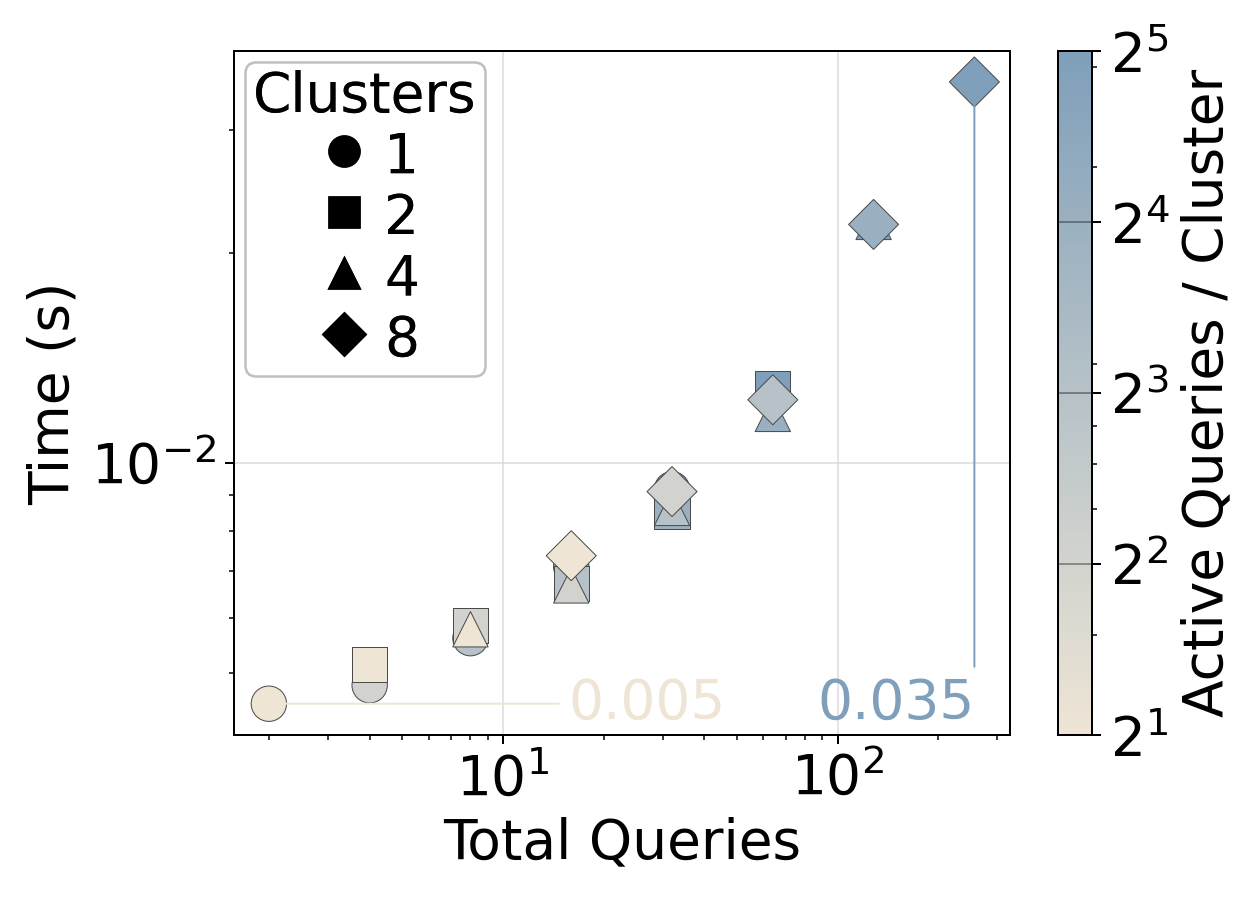
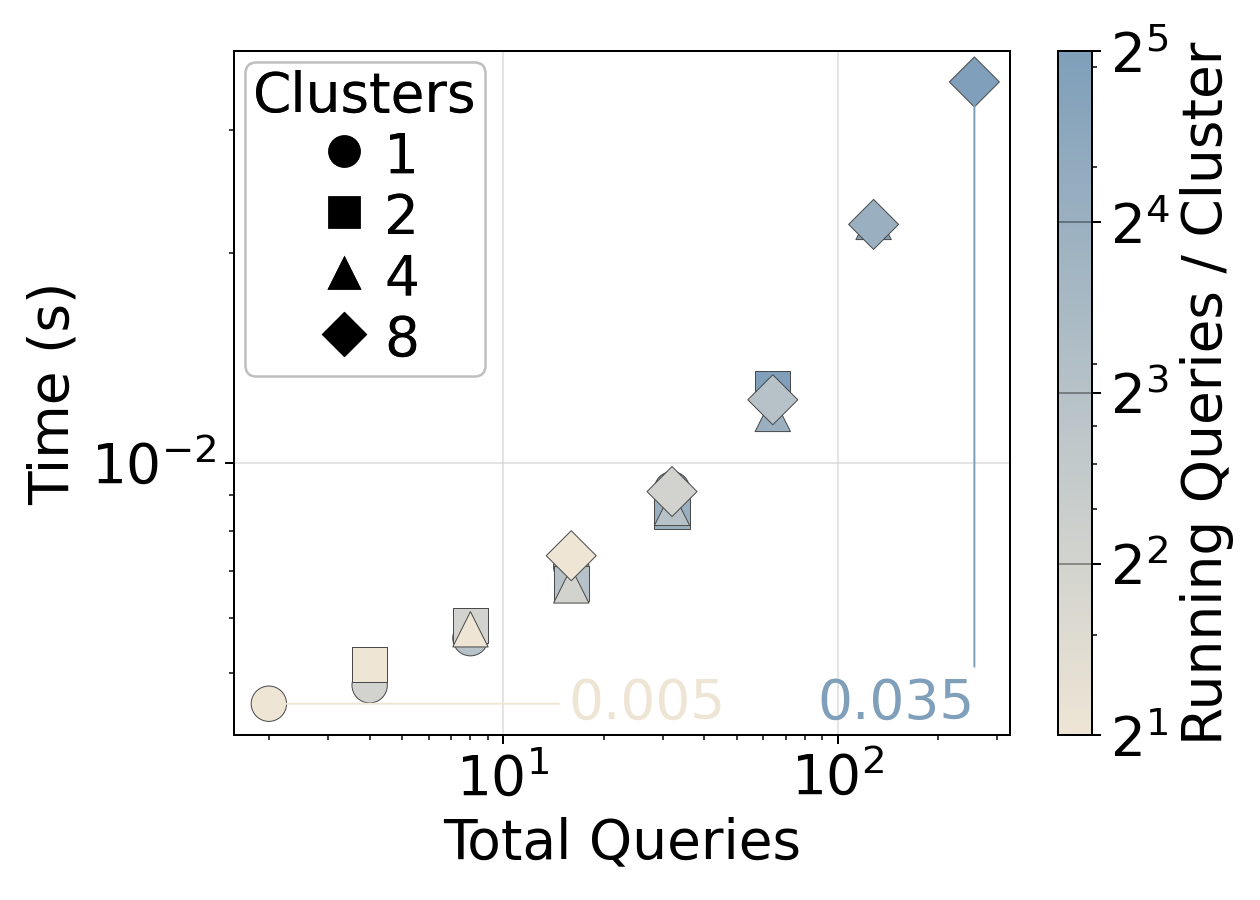
Fix rotuer microbenchmark color bar label

Changed region(s): [[0.9286, 0.0622, 0.9905, 0.84]]

diff --git a/src/autoslo/microbenchmarks/routing_efficiency.py b/src/autoslo/microbenchmarks/routing_efficiency.py
@@ -119,7 +119,7 @@ class RoutingEfficiencyBenchmark(MicrobenchmarkRunner):
             shape_col="clusters",
             color_col="active_per_cluster",
             shape_legend_title="Clusters",
-            colorbar_label="Active Queries / Cluster",
+            colorbar_label="Running Queries / Cluster",
             cmap_colors=[
                 Palette.cream,
                 Palette.light_blue
